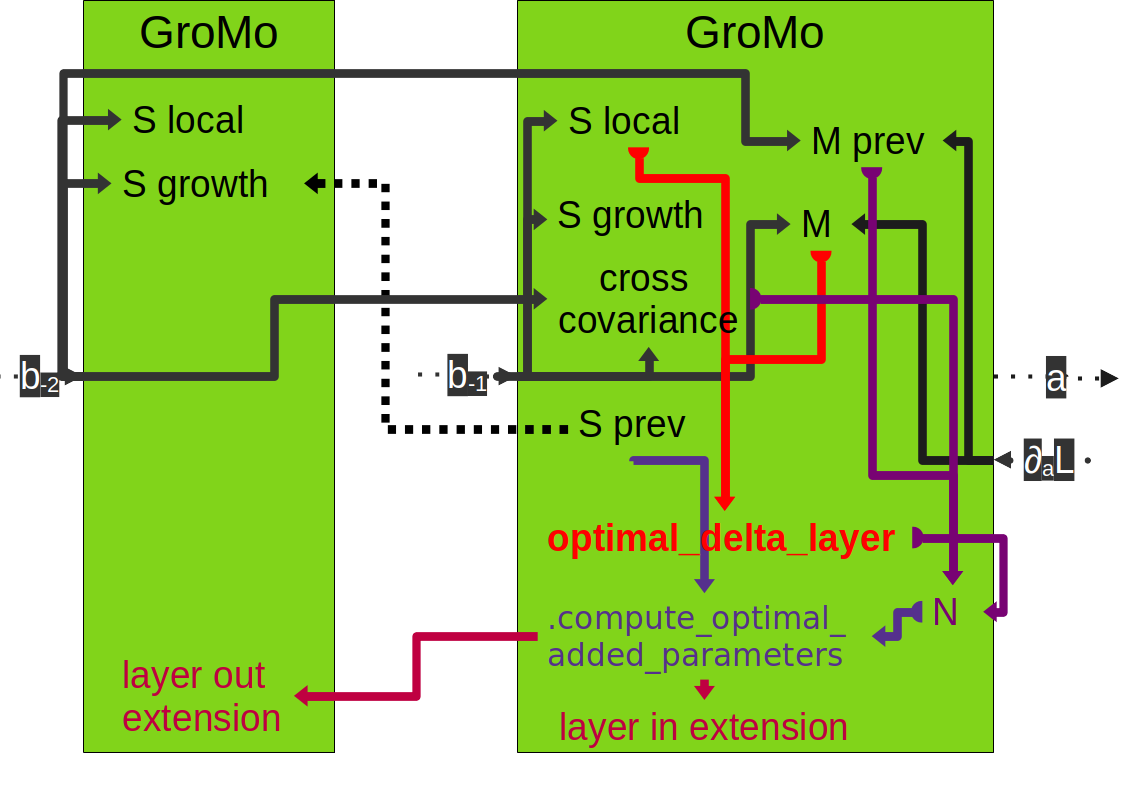
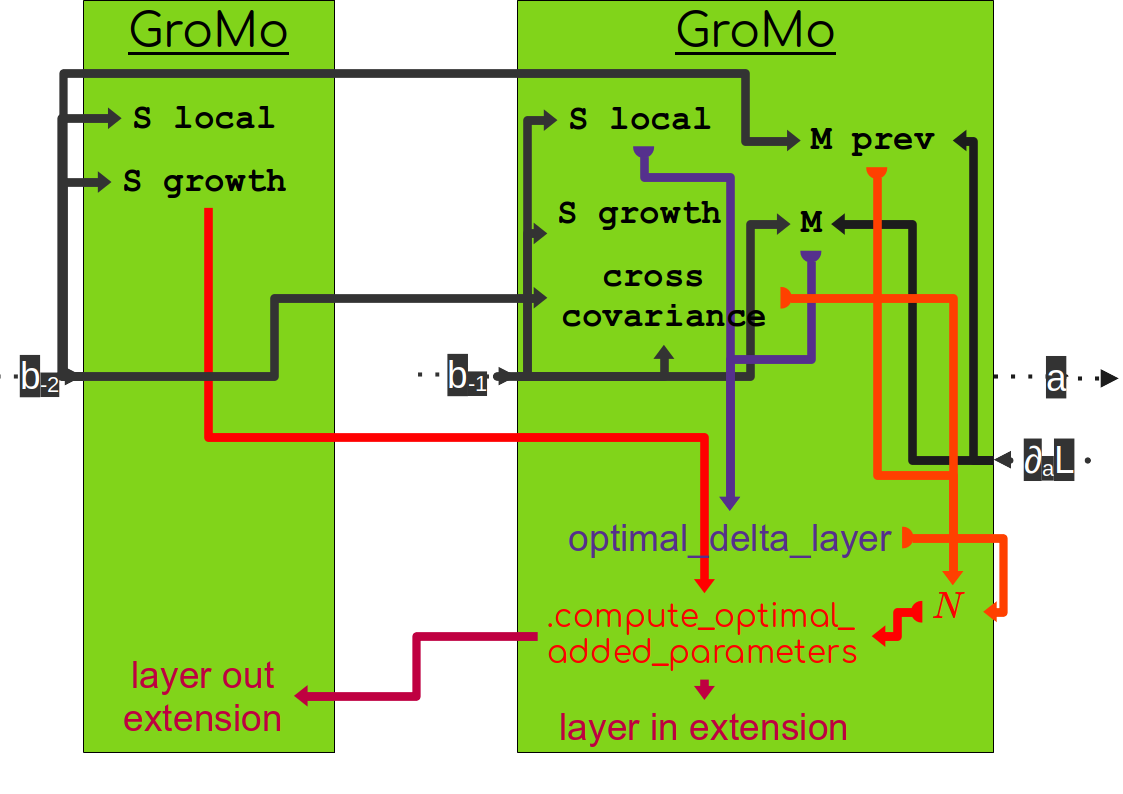
docs: Technical notes on statistics computation

diff --git a/docs/source/tech_notes.rst b/docs/source/tech_notes.rst
@@ -15,7 +15,7 @@ Here is a list of statistics that can be useful:
 
 - `S local`: the tensor :math:`S_{-1}` for the natural gradient
 - `M`: the tensor :math:`M_{-1}` for the natural gradient
-- `S prev`: the tensor :math:`S_{-2}` to compute the new weights
+- `S growth`: the tensor :math:`S_{-2}` to compute the new weights
 - `M prev`: the tensor :math:`M_{-2}` to compute the new weights
 - `cross covariance`: the cross covariance :math:`P` to compute the new weights
 
@@ -51,10 +51,17 @@ The computation of all statistic has the same structure.
 3. We call the method `update` of the statistic to update it with the intermediate quantities. This includes updating the number of samples seen to compute the current statistic.
 4. We can then access the statistic by calling it (i.e. using `__call__`).
 
-The previously mentioned statistics (`S local`, `M`, `S prev`, `M prev`, `cross covariance`) are transparently accessible in the `GrowingModule`. However they are not necessary stored in the `GrowingModule`. In the case of a `GrowingModule`,  (`M`, `M prev`, `cross covariance`) are computed in the `GrowingModule`. `S local` is computed either in the previous module if it is an `AdditionGrowingModule` or in the `GrowingModule` if it is a `GrowingModule` (this is due to the fact that all next modules of an addition module require the same `S local`). The computation of `S prev` is left to the previous module in any case (this is due to the fact that in the case of fully-connected layers (`nn.Linear`) the `S prev` is exactly the `S local` of the previous module).
+The previously mentioned statistics (`S local`, `M`, `S growth`, `M prev`, `cross covariance`) are transparently accessible in the `GrowingModule`. However they are not necessary stored in the `GrowingModule`. In the case of a `GrowingModule`,  (`M`, `M prev`, `cross covariance`) are computed in the `GrowingModule`. `S local` is computed either in the previous module if it is an `AdditionGrowingModule` or in the `GrowingModule` if it is a `GrowingModule` (this is due to the fact that all next modules of an addition module require the same `S local`). The computation of `S growth` is left to the previous module in any case (this is due to the fact that in the case of fully-connected layers (`nn.Linear`) the `S growth` is exactly the `S local` of the previous module). (Note that here we talk about the `S growth` used to by the current layer to compute new weights. Indeed, the layer still needs to compute a `S growth` but which is used by the next layer to compute its new weights).
 
----------------------
-Example
+`S local` and `S growth` (for the next module) tensors are computed using the input of the module. `cross covariance` is computed using the input of the module and of the previous module. `M` is computed using the input and the output gradient of the module. `M prev` is computed using the input of the previous module and the output gradient of the current module.
+
+
+Updates
+--------
+
+Once the statistics are computed we can compute the optimal updates. First the natural gradient using the `S local` and `M` tensors that get stored in the `optimal_delta_layer` attribute of the module. Then we can compute the tensor `N` using the `cross covariance` and `M prev` tensors. Finally we can compute the new weights using the `S growth` and `N` tensors. Those new weights are stored in the `layer_in_extension` attribute of the current module and in the `layer_out_extension` attribute of the previous module.
+
+Wrap-up
 ---------------------
 
 If we take an example with two growing modules and look at most of the objects that are computed we have the following graph:
@@ -65,9 +72,7 @@ If we take an example with two growing modules and look at most of the objects t
     :height: 565px
     :alt: computation graph of the statistics
 
-Here we have for example the `S local` and `S growth` tensors computed using the input of the module. `S prev` is not computed in the module but point to the `S growth` of the previous module. `cross covariance` is computed using the input of the module and of the previous module. `M` is computed using the input and the output gradient of the module. `M prev` is computed using the input of the previous module and the output gradient of the current module.
-
-Then `S local` and `M` are used to compute the natural gradient stored in the `optimal_delta_layer` attribute of the module. Then this layer combined with the `cross covariance` is and the `M prev` is used to compute the tensor `N` (which is the equivalent of `M` for the new weights). Then `N` can be combined with `S prev` using the `compute_optimal_added_parameters` method to compute the new weights stored in `layer_in_extension` of the current module and `layer_out_extension` of the previous module.
+The first step is to compute the statistics (the objects written in black) and which are directly computed from intermediate quantities of the network (the gray arrows indicate the dependencies of each statistic). Then we can compute the optimal parameter update (represented by `optimal_delta_layer` and represented in purple). Finally we can compute the new weights using the method `compute_optimal_added_parameters` (represented in red) which store the result in the `layer_in_extension` attribute of the current module and in the `layer_out_extension` attribute of the previous module.
 
 =====================
 Growing a layer
